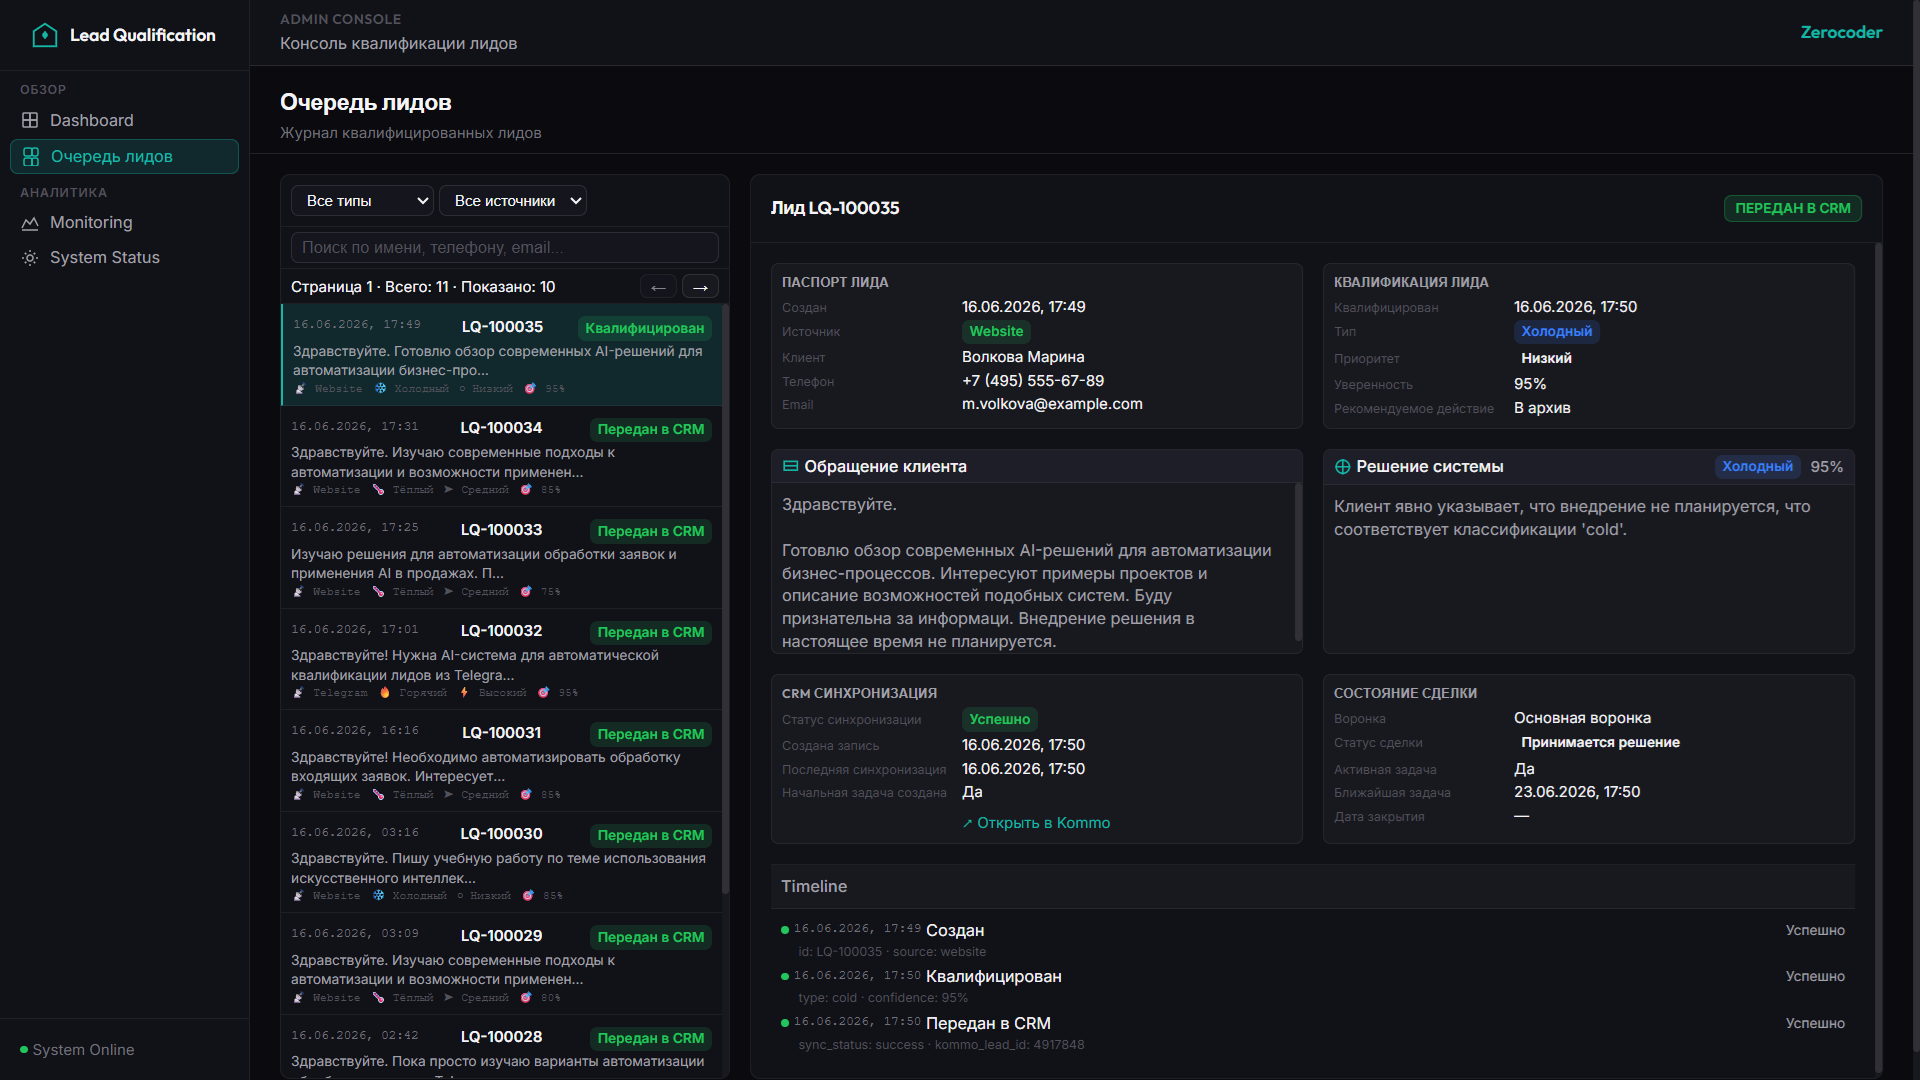
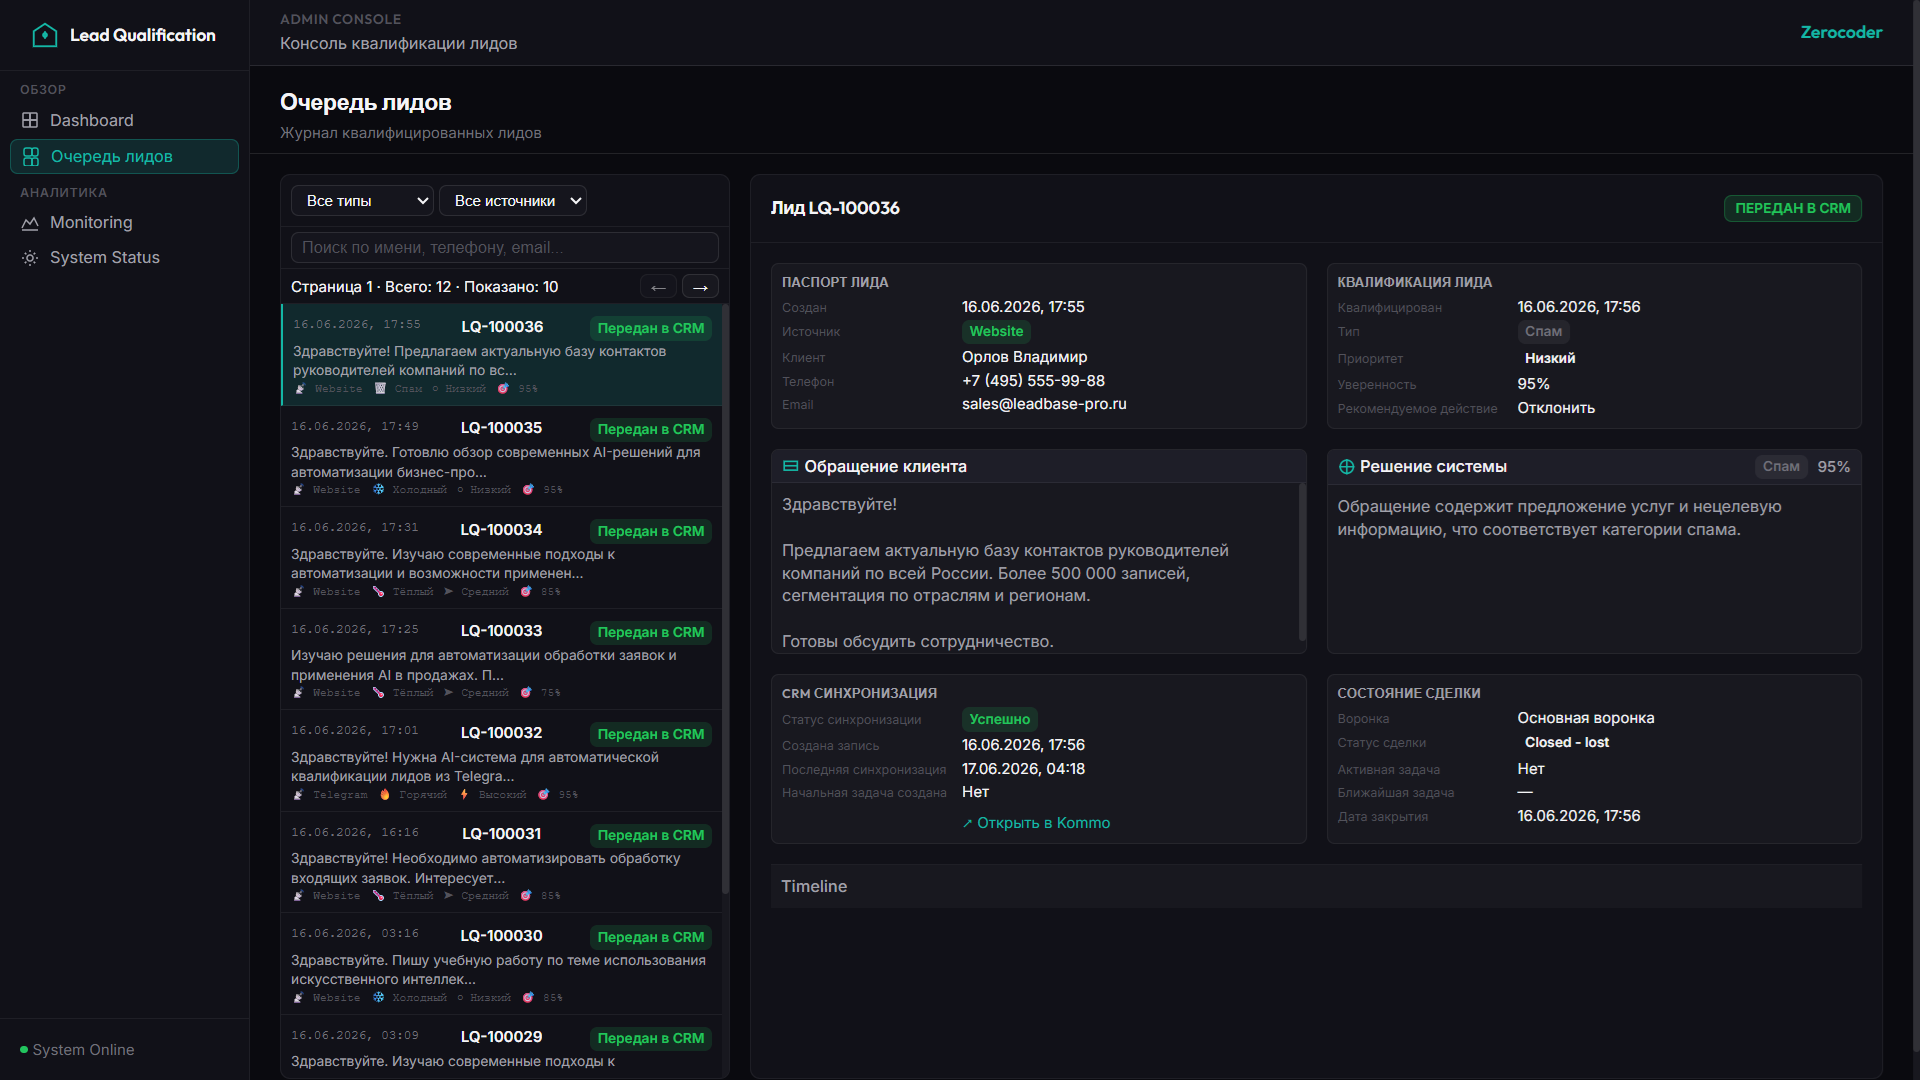
Update business docs

diff --git a/README.md b/README.md
@@ -30,8 +30,8 @@
 
 ### Для инженера
 
-- [Архитектура](docs/ARCHITECTURE.md) — как устроена система
-- [AI-классификация](docs/AI_QUALIFICATION.md) — логика квалификации
+- [Архитектура](docs/ARCHITECTURE.md) — как устроена система, стек, структура проекта
+- [AI-классификация](docs/AI_QUALIFICATION.md) — логика квалификации, категории лидов
 - [План реализации](docs/IMPLEMENTATION_PLAN.md) — этапы разработки
 - [Соответствие ТЗ](docs/TZ_COMPLIANCE_REPORT.md) — покрытие требований
 
@@ -144,159 +144,6 @@
 
 ---
 
-## Классификация лидов
-
-| Тип | Описание | CRM Status | Задача |
-|-----|----------|------------|--------|
-| **Hot** | Готов купить немедленно | Hot Lead | +15 минут |
-| **Warm** | Заинтересован, нужен follow-up | Warm Lead | +24 часа |
-| **Cold** | Не готов к решению сейчас | Cold Lead | +7 дней |
-| **Spam** | Нецелевое обращение | Spam | Не создаётся |
-
-Почему AI-классификация с fallback: [AI-классификация](docs/AI_QUALIFICATION.md)
-
----
-
-## Архитектура
-
-```mermaid
-flowchart TB
-    subgraph clients["Клиентские каналы"]
-        WEB["Website Form"]
-        TG["Telegram Bot"]
-    end
-
-    subgraph n8n["n8n Server"]
-        ING["Lead Ingestion"]
-        CLS["AI Classification"]
-        CRM["CRM Writer"]
-        SYNC["CRM Status Sync"]
-    end
-
-    subgraph storage["PostgreSQL"]
-        DB[("lead_qualification<br/>contacts, leads,<br/>qualifications, crm_sync")]
-    end
-
-    subgraph external["Внешние системы"]
-        OPENAI["OpenAI API<br/>gpt-4o-mini"]
-        KOMMO["Kommo CRM"]
-    end
-
-    subgraph admin["Admin Console"]
-        UI["Admin UI<br/>Dashboard + Leads"]
-        API["Admin API<br/>FastAPI"]
-    end
-
-    WEB -->|POST webhook| ING
-    TG -->|Message| ING
-    ING -->|Save| DB
-    ING -->|Trigger| CLS
-    CLS -->|Classify| OPENAI
-    CLS -->|Fallback| CLS
-    CLS -->|Save qualification| DB
-    CLS -->|Trigger| CRM
-    CRM -->|Create lead + task| KOMMO
-    CRM -->|Save sync| DB
-    SYNC -->|Poll every 15min| KOMMO
-    SYNC -->|Update snapshot| DB
-    API -->|Read| DB
-    UI -->|Display| API
-```
-
-Подробно: [Архитектура](docs/ARCHITECTURE.md)
-
----
-
-## Технологический стек
-
-| Слой | Технология | Версия |
-|------|------------|--------|
-| **Workflow Engine** | n8n (self-hosted) | Latest |
-| **AI Provider** | OpenAI API | gpt-4o-mini |
-| **CRM** | Kommo | API v4 |
-| **Database** | PostgreSQL | 14+ |
-| **Admin Backend** | FastAPI, Python | 3.12 |
-| **Admin Frontend** | Vanilla JS | — |
-| **Telegram** | Telegram Bot API | — |
-| **Reverse Proxy** | Traefik | — |
-| **Deploy** | Docker Compose | — |
-
----
-
-## Быстрый запуск
-
-### Предварительные требования
-
-- Docker и Docker Compose
-- OpenAI API ключ
-- Telegram Bot Token (опционально)
-- Kommo Access Token
-
-### Запуск
-
-```bash
-# 1. Клонировать репозиторий
-git clone <repository-url>
-cd n8n-lead-qualification
-
-# 2. Настроить переменные окружения
-cd infra
-cp .env.example .env
-# Отредактируйте .env с вашими ключами
-
-# 3. Запустить сервисы
-docker compose up -d
-
-# 4. Проверить статус
-docker compose ps
-```
-
-После запуска:
-
-| Сервис | URL |
-|--------|-----|
-| **Client UI** | http://localhost:5180 |
-| **Admin UI** | http://localhost:8080 |
-| **n8n UI** | http://localhost:5678 |
-| **Admin API** | http://localhost:8000/docs |
-
-Подробно: [Руководство по развёртыванию](docs/DEPLOYMENT_GUIDE.md)
-
----
-
-## Структура проекта
-
-```
-n8n-lead-qualification/
-├── README.md                    # Этот файл
-├── docs/                        # Документация
-│   ├── BUSINESS_VALUE.md        # Ценность для бизнеса
-│   ├── SYSTEM_DEMO.md           # Демонстрация системы
-│   ├── ARCHITECTURE.md          # Архитектура системы
-│   ├── USER_GUIDE.md            # Руководство пользователя
-│   ├── DEPLOYMENT_GUIDE.md      # Руководство по развёртыванию
-│   ├── E2E_SCENARIOS.md         # Сквозные сценарии
-│   ├── AI_QUALIFICATION.md      # AI-классификация
-│   ├── PROJECT_STATE.md         # Текущее состояние
-│   ├── PROJECT_HISTORY.md       # История развития
-│   ├── IMPLEMENTATION_PLAN.md   # План реализации
-│   ├── SCREENSHOTS.md           # Галерея экранов
-│   └── TZ_COMPLIANCE_REPORT.md   # Соответствие ТЗ
-├── infra/                       # Инфраструктура
-│   ├── docker-compose.yml       # Сервисы Docker
-│   ├── sql/                      # Схема БД
-│   └── docker/                   # Конфигурации Docker
-├── admin-ui/                    # Admin Console Frontend
-├── admin-backend/               # Admin Console Backend (FastAPI)
-├── client-ui/                   # Клиентский UI
-├── workflow/                     # n8n workflows
-│   └── n8n/workflows/           # JSON экспорт workflows
-├── task_history/                # История задач
-└── docs/screenshots/            # Скриншоты
-```
-
----
-
 ## Документация
 
 ### Для заказчика
@@ -312,7 +159,7 @@ n8n-lead-qualification/
 
 | Документ | Назначение |
 |----------|------------|
-| [ARCHITECTURE.md](docs/ARCHITECTURE.md) | Архитектура системы |
+| [ARCHITECTURE.md](docs/ARCHITECTURE.md) | Архитектура, стек, структура проекта |
 | [AI_QUALIFICATION.md](docs/AI_QUALIFICATION.md) | Логика AI-классификации |
 | [IMPLEMENTATION_PLAN.md](docs/IMPLEMENTATION_PLAN.md) | План реализации |
 | [DEPLOYMENT_GUIDE.md](docs/DEPLOYMENT_GUIDE.md) | Развёртывание |
@@ -321,16 +168,9 @@ n8n-lead-qualification/
 
 ## Рыночное подтверждение
 
-**Подтверждающие заказы:**
+Система закрывает критический дефицит n8n-компетенций в портфолио (33% заказов упоминают n8n).
 
-| Заказ | Платформа | Бюджет | Ключевые требования |
-|-------|-----------|--------|---------------------|
-| FL.ru #5507855 | n8n + Claude API | 60 000 руб. | 5 AI-агентов для маркетплейсов |
-| FL.ru #5508101 | n8n + Asterisk | — | Анализ звонков, интеграция с Битрикс24 |
-| FL.ru #5506712 | Мессенджер + Kommo | — | Квалификация водителей такси (Перу) |
-| FL.ru #5507454 | Zapier + Kommo + OpenAI | — | Два последовательных запроса к OpenAI |
-
-**Покрытие спроса:** 33% заказов упоминают n8n — критический дефицит портфолио закрыт.
+Подробности: [Состояние проекта](docs/PROJECT_STATE.md)
 
 ---
 

diff --git a/docs/ARCHITECTURE.md b/docs/ARCHITECTURE.md
@@ -757,3 +757,80 @@ ORDER BY created_at DESC;
 | **Workflow Engine** | n8n, Zapier | n8n | Self-hosted, гибкость |
 | **Polling vs Event** | Polling, Event Chain | Polling | Простота MVP |
 | **Admin UI** | Custom, n8n built-in | Custom | Специализированный UX |
+
+---
+
+## 11. Технологический стек
+
+| Слой | Технология | Версия | Назначение |
+|------|------------|--------|------------|
+| **Workflow Engine** | n8n (self-hosted) | Latest | Оркестрация всех workflows |
+| **AI Provider** | OpenAI API | gpt-4o-mini | AI-классификация лидов |
+| **CRM** | Kommo | API v4 | Интеграция с CRM |
+| **Database** | PostgreSQL | 14+ | Хранение бизнес-данных |
+| **Admin Backend** | FastAPI, Python | 3.12 | API для Admin Console |
+| **Admin Frontend** | Vanilla JS | — | Dashboard и Lead Queue |
+| **Client Frontend** | Nginx + Static HTML | — | Landing и форма заявки |
+| **Telegram** | Telegram Bot API | — | Приём лидов из Telegram |
+| **Reverse Proxy** | Traefik | — | SSL termination, routing |
+| **Deploy** | Docker Compose | — | Контейнеризация |
+
+---
+
+## 12. Структура проекта
+
+```
+n8n-lead-qualification/
+├── README.md                    # Главное введение в проект
+├── docs/                        # Документация
+│   ├── BUSINESS_VALUE.md        # Ценность для бизнеса
+│   ├── SYSTEM_DEMO.md           # Демонстрация системы
+│   ├── ARCHITECTURE.md          # Архитектура системы (этот файл)
+│   ├── USER_GUIDE.md            # Руководство пользователя
+│   ├── DEPLOYMENT_GUIDE.md      # Руководство по развёртыванию
+│   ├── E2E_SCENARIOS.md         # Сквозные сценарии
+│   ├── AI_QUALIFICATION.md      # AI-классификация
+│   ├── PROJECT_STATE.md         # Текущее состояние
+│   ├── PROJECT_HISTORY.md       # История развития
+│   ├── IMPLEMENTATION_PLAN.md   # План реализации
+│   ├── SCREENSHOTS.md           # Галерея экранов
+│   └── TZ_COMPLIANCE_REPORT.md   # Соответствие ТЗ
+├── infra/                       # Инфраструктура
+│   ├── docker-compose.yml       # Сервисы Docker
+│   ├── sql/                      # Схема БД
+│   │   └── init-db.sql          # Инициализация БД
+│   └── docker/                   # Конфигурации Docker
+├── admin-ui/                    # Admin Console Frontend
+│   ├── index.html               # Dashboard
+│   ├── leads.html              # Lead Queue
+│   ├── lead.html                # Lead Details
+│   └── js/                      # JavaScript модули
+├── admin-backend/               # Admin Console Backend
+│   ├── main.py                  # FastAPI entry point
+│   ├── routers/                 # API routes
+│   └── models/                  # Pydantic models
+├── client-ui/                   # Клиентский UI
+│   ├── index.html               # Landing page
+│   ├── success.html             # Страница успеха
+│   └── js/                      # JavaScript модули
+├── workflow/                     # n8n workflows
+│   └── n8n/workflows/           # JSON экспорт workflows
+│       ├── lead-ingestion-v2.json
+│       ├── lead-classification-mvp.json
+│       ├── kommo-writer-mvp.json
+│       └── crm-status-sync-mvp.json
+├── task_history/                # История задач
+└── docs/screenshots/            # Скриншоты
+```
+
+### Ключевые директории
+
+| Директория | Назначение |
+|------------|------------|
+| `infra/` | Docker Compose, SQL-схемы, конфигурации |
+| `admin-ui/` | Dashboard, Lead Queue, Lead Details |
+| `admin-backend/` | FastAPI API для Admin Console |
+| `client-ui/` | Landing page и форма заявки |
+| `workflow/n8n/workflows/` | Экспортированные n8n workflows |
+| `docs/` | Вся документация проекта |
+| `task_history/` | История задач по разработке |

diff --git a/docs/BUSINESS_VALUE.md b/docs/BUSINESS_VALUE.md
@@ -123,6 +123,36 @@ AI работает по заданной схеме:
 
 ---
 
+## Ключевые возможности системы
+
+![Возможности](screenshots/landing-features.png)
+
+### AI Qualification
+
+Мгновенная классификация обращений с помощью OpenAI GPT-4o-mini. Определение типа лида, уровня интереса и приоритета обработки.
+
+### Lead Scoring
+
+Автоматическая оценка качества лида по множеству факторов. Confidence score показывает уверенность классификации.
+
+### CRM Integration
+
+Бесшовная интеграция с Kommo CRM. Сделки создаются автоматически с правильным статусом воронки.
+
+### Workflow Automation
+
+Полная автоматизация пути лида: приём → классификация → CRM → задача менеджеру.
+
+### Manager Alerts
+
+Автоматическое создание задач с приоритетом. Горячие лиды — через 15 минут, тёплые — через 24 часа.
+
+### Analytics
+
+Единая консоль мониторинга. Метрики в реальном времени: распределение по типам, статус CRM, история обращений.
+
+---
+
 ## Измеримый эффект
 
 ### Сокращение времени обработки
@@ -159,6 +189,15 @@ AI работает по заданной схеме:
 ---
 
 ## Почему Lead Qualification MVP отличается от ручной обработки
+
+![Для менеджера](screenshots/landing-manager.png)
+
+**Менеджер получает не сырое обращение, а уже квалифицированного лида:**
+
+- ✅ С приоритетом (hot/warm/cold)
+- ✅ С AI-резюме (summary, reasoning)
+- ✅ С рекомендацией (call/email/archive)
+- ✅ С готовой задачей в CRM
 
 | Аспект | Ручная обработка | Lead Qualification MVP |
 |--------|------------------|------------------------|
@@ -197,3 +236,7 @@ AI работает по заданной схеме:
 - [USER_GUIDE.md](USER_GUIDE.md) — руководство пользователя
 - [E2E_SCENARIOS.md](E2E_SCENARIOS.md) — сквозные сценарии
 - [DEPLOYMENT_GUIDE.md](DEPLOYMENT_GUIDE.md) — руководство по развёртыванию
+
+---
+
+![Начните использовать Lead Qualification](screenshots/landing-STA.png)

diff --git a/docs/DEPLOYMENT_GUIDE.md b/docs/DEPLOYMENT_GUIDE.md
@@ -4,6 +4,45 @@
 
 ---
 
+## Быстрый запуск
+
+### Предварительные требования
+
+- Docker и Docker Compose
+- OpenAI API ключ
+- Telegram Bot Token (опционально)
+- Kommo Access Token
+
+### Запуск
+
+```bash
+# 1. Клонировать репозиторий
+git clone <repository-url>
+cd n8n-lead-qualification
+
+# 2. Настроить переменные окружения
+cd infra
+cp .env.example .env
+# Отредактируйте .env с вашими ключами
+
+# 3. Запустить сервисы
+docker compose up -d
+
+# 4. Проверить статус
+docker compose ps
+```
+
+### После запуска
+
+| Сервис | URL | Назначение |
+|--------|-----|------------|
+| **Client UI** | http://localhost:5180 | Клиентская форма |
+| **Admin UI** | http://localhost:8080 | Admin Console |
+| **n8n UI** | http://localhost:5678 | Редактор workflows |
+| **Admin API** | http://localhost:8000/docs | API документация |
+
+---
+
 ## 1. Обзор инфраструктуры
 
 ### 1.1. Архитектура развёртывания
